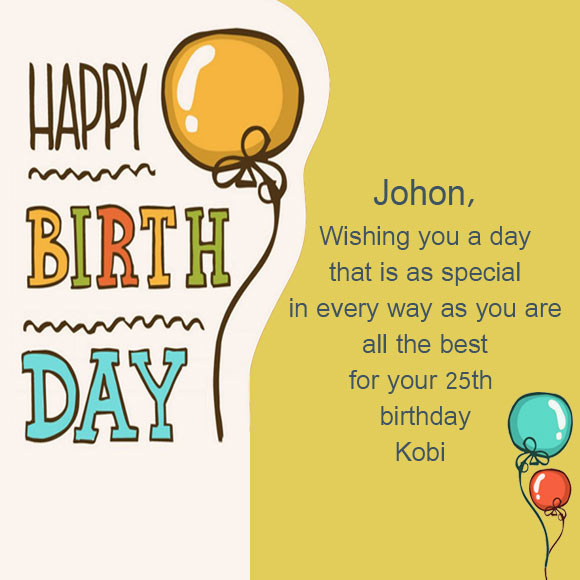
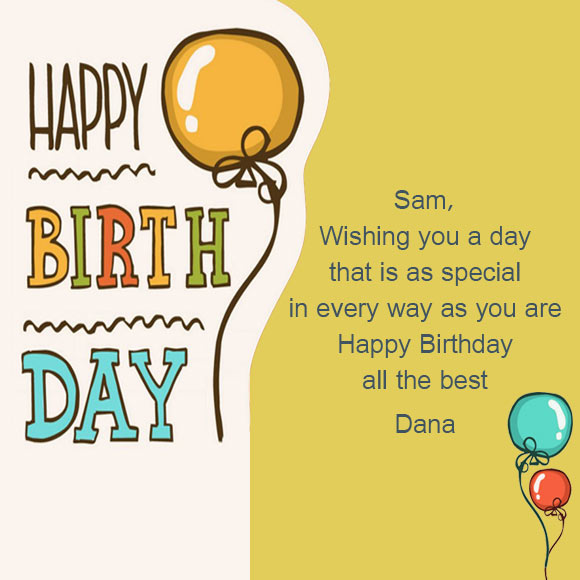
canvas working

Changed region(s): [[0.5586, 0.5586, 0.9, 0.8069], [0.6517, 0.3103, 0.8379, 0.3724]]

diff --git a/app/cards/cardDetailsCtrl.js b/app/cards/cardDetailsCtrl.js
@@ -1,4 +1,18 @@
-appGCard.controller("cardDetailsCtrl", function ($scope, $location, $routeParams, cardService, Card, myCanvas) {
+appGCard.controller("cardDetailsCtrl", function ($scope, $location, $routeParams, cardService, Card) {
+
+    $scope.download = function() {
+        var downloadBtn = document.getElementById("downloadButton");
+        downloadBtn.href = document.getElementById("myCanvas").toDataURL();
+        downloadBtn.download = "test.png";
+    }
+
+
+    $scope.imageLoaded = function() {
+        var c = document.getElementById("myCanvas");
+        var ctx = c.getContext("2d");
+        var img = document.getElementById("pic");
+        ctx.drawImage(img, 0, 0, 400, 400);
+    }
 
 
     // Creating a copy of the card object so changes won't be reflected on the array
@@ -9,29 +23,84 @@ appGCard.controller("cardDetailsCtrl", function ($scope, $location, $routeParams
     }
 
     $scope.update = function () {
-        recipes.update($routeParams.cardIndex);
+        cardService.update($routeParams.cardIndex);
         $location.path("/cards");
     }
 
-    $scope.remove = function () {
-        recipes.remove($routeParams.cardIndex);
-        $location.path("/cards");
-    }
 
     $scope.sendMail = function (a) {
         console.log(a.toEmail);
     }
+
+    $scope.updateCanvas = function () {
+        var c = document.getElementById("myCanvas");
+        var ctx = c.getContext("2d");
+
+        if ($scope.card.name) {
+            ctx.font = "30px Arial";
+            var img = document.getElementById("pic");
+            ctx.drawImage(img, 0, 0, 400, 400);            
+            ctx.fillText($scope.card.name, 50, 50);
+            if ($scope.card.sender)
+                ctx.fillText($scope.card.sender, 50, 50);
+
+        }
+
+        if ($scope.card.sender) {
+            ctx.font = "30px Arial";
+            var img = document.getElementById("pic");
+            ctx.drawImage(img, 0, 0, 400, 400);
+            ctx.fillText($scope.card.sender, 50, 250);
+            if ($scope.card.name)
+                ctx.fillText($scope.card.name, 50, 50);
+
+        }
+
+    }
 })
 
-
-
+appGCard.directive('imageonload', function() {
+        return {
+            restrict: 'A',
+            link: function(scope, element, attrs) {
+                element.bind('load', function() {
+                    //call the function that was passed
+                    scope.$apply(attrs.imageonload);
+                });
+            }
+        };
+    })
 
 /*
-function myCanvas() {
+ myCanvas();
+ 
+ 
+
+
+  function myCanvas() {
+      var c = document.getElementById("myCanvas");
+      var ctx = c.getContext("2d");
+      var img = document.getElementById(cardIndex);
+      ctx.drawImage(img, 10, 10);
+
+      var c = document.getElementById("myCanvas");
+      var ctx = c.getContext("2d");
+      ctx.font = "30px Arial";
+      ctx.fillText("name", 50, 50);
+
+      var c = document.getElementById("myCanvas");
+      var ctx = c.getContext("2d");
+      ctx.font = "30px Arial";
+      ctx.fillText("name2", 50, 250);
+
+    }
+    */
+
+/*
+  function myCanvas() {
     var c = document.getElementById("myCanvas");
     var ctx = c.getContext("2d");
-    var ctx = c.getContext("2d");
-    var img = document.getElementById("scream");
+      var img = document.getElementById("pic");
     ctx.drawImage(img, 10, 10);
 
     var c = document.getElementById("myCanvas");
@@ -44,4 +113,5 @@ function myCanvas() {
     ctx.font = "30px Arial";
     ctx.fillText("name2", 50, 250);
 
-}*/
+}
+*/

diff --git a/app/cards/cardDetails.html b/app/cards/cardDetails.html
@@ -8,32 +8,32 @@
       <div class="form-group">
         <label class="control-label col-sm-2" for="name">Name:</label>
         <div class="col-sm-4">
-          <input type="text" class="form-control" id="name" placeholder="Enter birthday name" ng-model="card.name">
+          <input type="text" class="form-control" id="name" placeholder="Enter birthday name" ng-model="card.name" ng-keyup="updateCanvas()">
         </div>
       </div>
       <div class="form-group">
         <label class="control-label col-sm-2" for="name">Sender Name:</label>
         <div class="col-sm-4">
-          <input type="text" class="form-control" id="name" placeholder="Enter the sender name" ng-model="card.sender">
+          <input type="text" class="form-control" id="name" placeholder="Enter the sender name" ng-model="card.sender" ng-keyup="updateCanvas()">
         </div>
       </div>
-     <div class="form-group">
+      <div class="form-group">
         <label class="control-label col-sm-2" for="name">e-mail:</label>
         <div class="col-sm-4">
-           <input type="email" class="form-control"  name="" id="input1/(\w+)/\u\1/g" class="form-control" value="" required="" title="" placeholder="send to email">
-     
-         
+          <input type="email" class="form-control" name="" id="input1/(\w+)/\u\1/g" value="" required="" title="" placeholder="Enter the email">
+
+
         </div>
-      </div> 
-    
-      
-     
+      </div>
+
+
+
       <div class="form-group">
         <div class="col-sm-offset-2 col-sm-4">
           <div class="pull-right">
             <button type="submit" class="btn btn-default" ng-click="back()">back</button>
             <button type="submit" class="btn btn-primary" ng-click="update()">Send</button>
-           
+
           </div>
         </div>
       </div>
@@ -44,17 +44,41 @@
   <div class="col-xs-12 col-sm-4 col-md-4 col-lg-4">
     <span id="name-span">{{card.name}}</span>
     <span id="sender-span">{{card.sender}}</span>
-    <img ng-src="{{card.img}}" class=" img-responsive block-center" alt="Image">
+    <img id="pic" ng-src="{{card.img}}" class=" img-responsive block-center" alt="Image" imageonload="imageLoaded()">
   </div>
   <!--   -->
- <div class="col-xs-12 col-sm-4 col-md-4 col-lg-4">
-      <span id="name-span">{{card.name}}</span>
-    <span id="sender-span">{{card.sender}}</span>
-     <canvas id="myCanvas" width="100" height="100" style="border:1px solid #d3d3d3;">
+  <div class="col-xs-12 col-sm-4 col-md-4 col-lg-4">
+
+    <canvas id="myCanvas" width="400" height="400" style="border:1px solid #d3d3d3;">
       Your browser does not support the HTML5 canvas tag.</canvas>
-   <img ng-src="{{card.img}}" class=" img-responsive block-center" alt="Image">
+
   </div>
 
+
+  <a id="downloadButton" ng-click="download()" class="btn btn-info" role="button">Download</a>
 
 </div>
 
+
+<!--
+<script>
+  myCanvas();
+
+  function myCanvas() {
+    var c = document.getElementById("myCanvas");
+    var ctx = c.getContext("2d");
+    var img = document.getElementById("pic");
+    ctx.drawImage(img, 10, 10);
+
+    // var c = document.getElementById("myCanvas");
+    // var ctx = c.getContext("2d");
+    // ctx.font = "30px Arial";
+    // ctx.fillText("name", 50, 50);
+
+    // var c = document.getElementById("myCanvas");
+    // var ctx = c.getContext("2d");
+    // ctx.font = "30px Arial";
+    // ctx.fillText("name2", 50, 250);
+
+  }
+</script>-->

diff --git a/app/cards/cardselectedCtrl.js b/app/cards/cardselectedCtrl.js
@@ -1,25 +1,25 @@
-appGCard.controller("cardDetailsCtrl", function ($scope, $location,   $routeParams ,cardService, Card ) {
+// appGCard.controller("cardDetailsCtrl", function ($scope, $location,   $routeParams ,cardService, Card ) {
 
 
-      // Creating a copy of the card object so changes won't be reflected on the array
-    $scope.card = new Card(cardService.get($routeParams.cardIndex));
+//       // Creating a copy of the card object so changes won't be reflected on the array
+//     $scope.card = new Card(cardService.get($routeParams.cardIndex));
 
-    $scope.back = function() {
-        $location.path("/");
-    }
+//     $scope.back = function() {
+//         $location.path("/");
+//     }
 
-    $scope.update = function() {
-        recipes.update($routeParams.cardIndex );
-        $location.path("/cards");
-    }
+//     $scope.update = function() {
+//         recipes.update($routeParams.cardIndex );
+//         $location.path("/cards");
+//     }
 
-    $scope.remove = function() {
-        recipes.remove($routeParams.cardIndex);
-        $location.path("/cards");
-    }
+//     $scope.remove = function() {
+//         recipes.remove($routeParams.cardIndex);
+//         $location.path("/cards");
+//     }
   
-    $scope.sendMail = function(a){
-    console.log(a.toEmail);
-    }
-})
+//     $scope.sendMail = function(a){
+//     console.log(a.toEmail);
+//     }
+// })
 

diff --git a/app/cards/cardsGalleryCtrl.js b/app/cards/cardsGalleryCtrl.js
@@ -4,23 +4,24 @@
 
 
 
-appGCard.controller("galleryCtrl", function ($scope, $http, $location,  $routeParams, cardService ) {
+appGCard.controller("galleryCtrl", function ($scope, $http, $location, $routeParams, cardService) {
 
     function Card(galleryObject) {
         this.cardTitle = galleryObject.cardTitle;
         this.img = galleryObject.img;
+        this.imgGallery = galleryObject.imgGallery;
         this.url = galleryObject.url;
         this.id = galleryObject.id;
-         this.isSelected = false;
-   
-  
- }
+        this.isSelected = false;
+
+
+    }
 
 
     // Making sure that we are only loading once
     if (cardService.getAll().length === 0) {
         $scope.cards = [];
-      $http.get("app/cards/gallery.json").then(function(response) {
+        $http.get("app/cards/gallery.json").then(function (response) {
             cardService.load(response.data);
             $scope.cards = cardService.getAll();
         });
@@ -28,14 +29,12 @@ appGCard.controller("galleryCtrl", function ($scope, $http, $location,  $routePa
         $scope.cards = cardService.getAll();
     }
 
-    $scope.openDetails = function(index) {
+    $scope.openDetails = function (index) {
         $location.path("/cards/" + index)
     }
 
 });
-   
 
-   
 
 
 

diff --git a/app/cards/cardsGallery.html b/app/cards/cardsGallery.html
@@ -1,24 +1,4 @@
-<!-->
-<div class="container">
-    
-   
 
-    
-    <div class="col-xs-12 col-sm-4 col-md-4 col-lg-4" ng-repeat="cards in cardsArr" >
-        
-        <div class="well card-item" ng-click="openDetails($index)">
-            
-            <img ng-src="{{cards.imageUrl}}" class="img-responsive" alt="Image">
-            <h3>{{cards.name}}</h3>
-            <p>{{cards.blessingText}}</p>
-
-        </div>
-        
-    </div>
-    
-    
-</div>
--->
 
  <form class="text-center">
     <input type="text" name="search" id="search" placeholder="Filter cards" ng-model="filterText" /> Sort by:
@@ -39,7 +19,7 @@
        <h3  >Choose a template card  </h3>
       <div class="imageGallery text-center  well card-item " ng-click="openDetails($index)"  ng-repeat="card in cards |  orderBy:orderProp"  ng-class="{'item-selected':cards.isSelected}">
 
-        <img class="imageGallery " ng-src="{{card.img}}" />
+        <img id="pic" class="imageGallery " ng-src="{{card.imgGallery}}" />
         <p >{{card.cardTitle}}</p>
       </div>
 
@@ -47,5 +27,4 @@
 
 
   <div class="clearfix"></div>
-
 

diff --git a/app/cards/cardselected.html b/app/cards/cardselected.html
@@ -1,4 +1,4 @@
-<div class="container">
+<!--<div class="container">
 
   <div class="page-header">
     <p>The selected card </p>
@@ -15,7 +15,7 @@
       <div class="form-group">
         <label class="control-label col-sm-2" for="name">Sender email:</label>
         <div class="col-sm-4">
-          <input type="text" class="form-control" id="name" placeholder="Enter the your email" ng-model="card.sender">
+          <input type="text" class="form-control" id="name" placeholder="Enter your email" ng-model="card.sender">
         </div>
       </div>
      
@@ -43,4 +43,4 @@
 
 
 </div>
-
+-->

diff --git a/app/services/cardService.js b/app/services/cardService.js
@@ -3,6 +3,7 @@ appGCard.factory("Card", function(){
     function Card(galleryObject) {
         this.cardTitle = galleryObject.cardTitle;
         this.img = galleryObject.img;
+        this.imgGallery = galleryObject.imgGallery;
         this.url = galleryObject.url;
          this.isSelected = false;
     }
